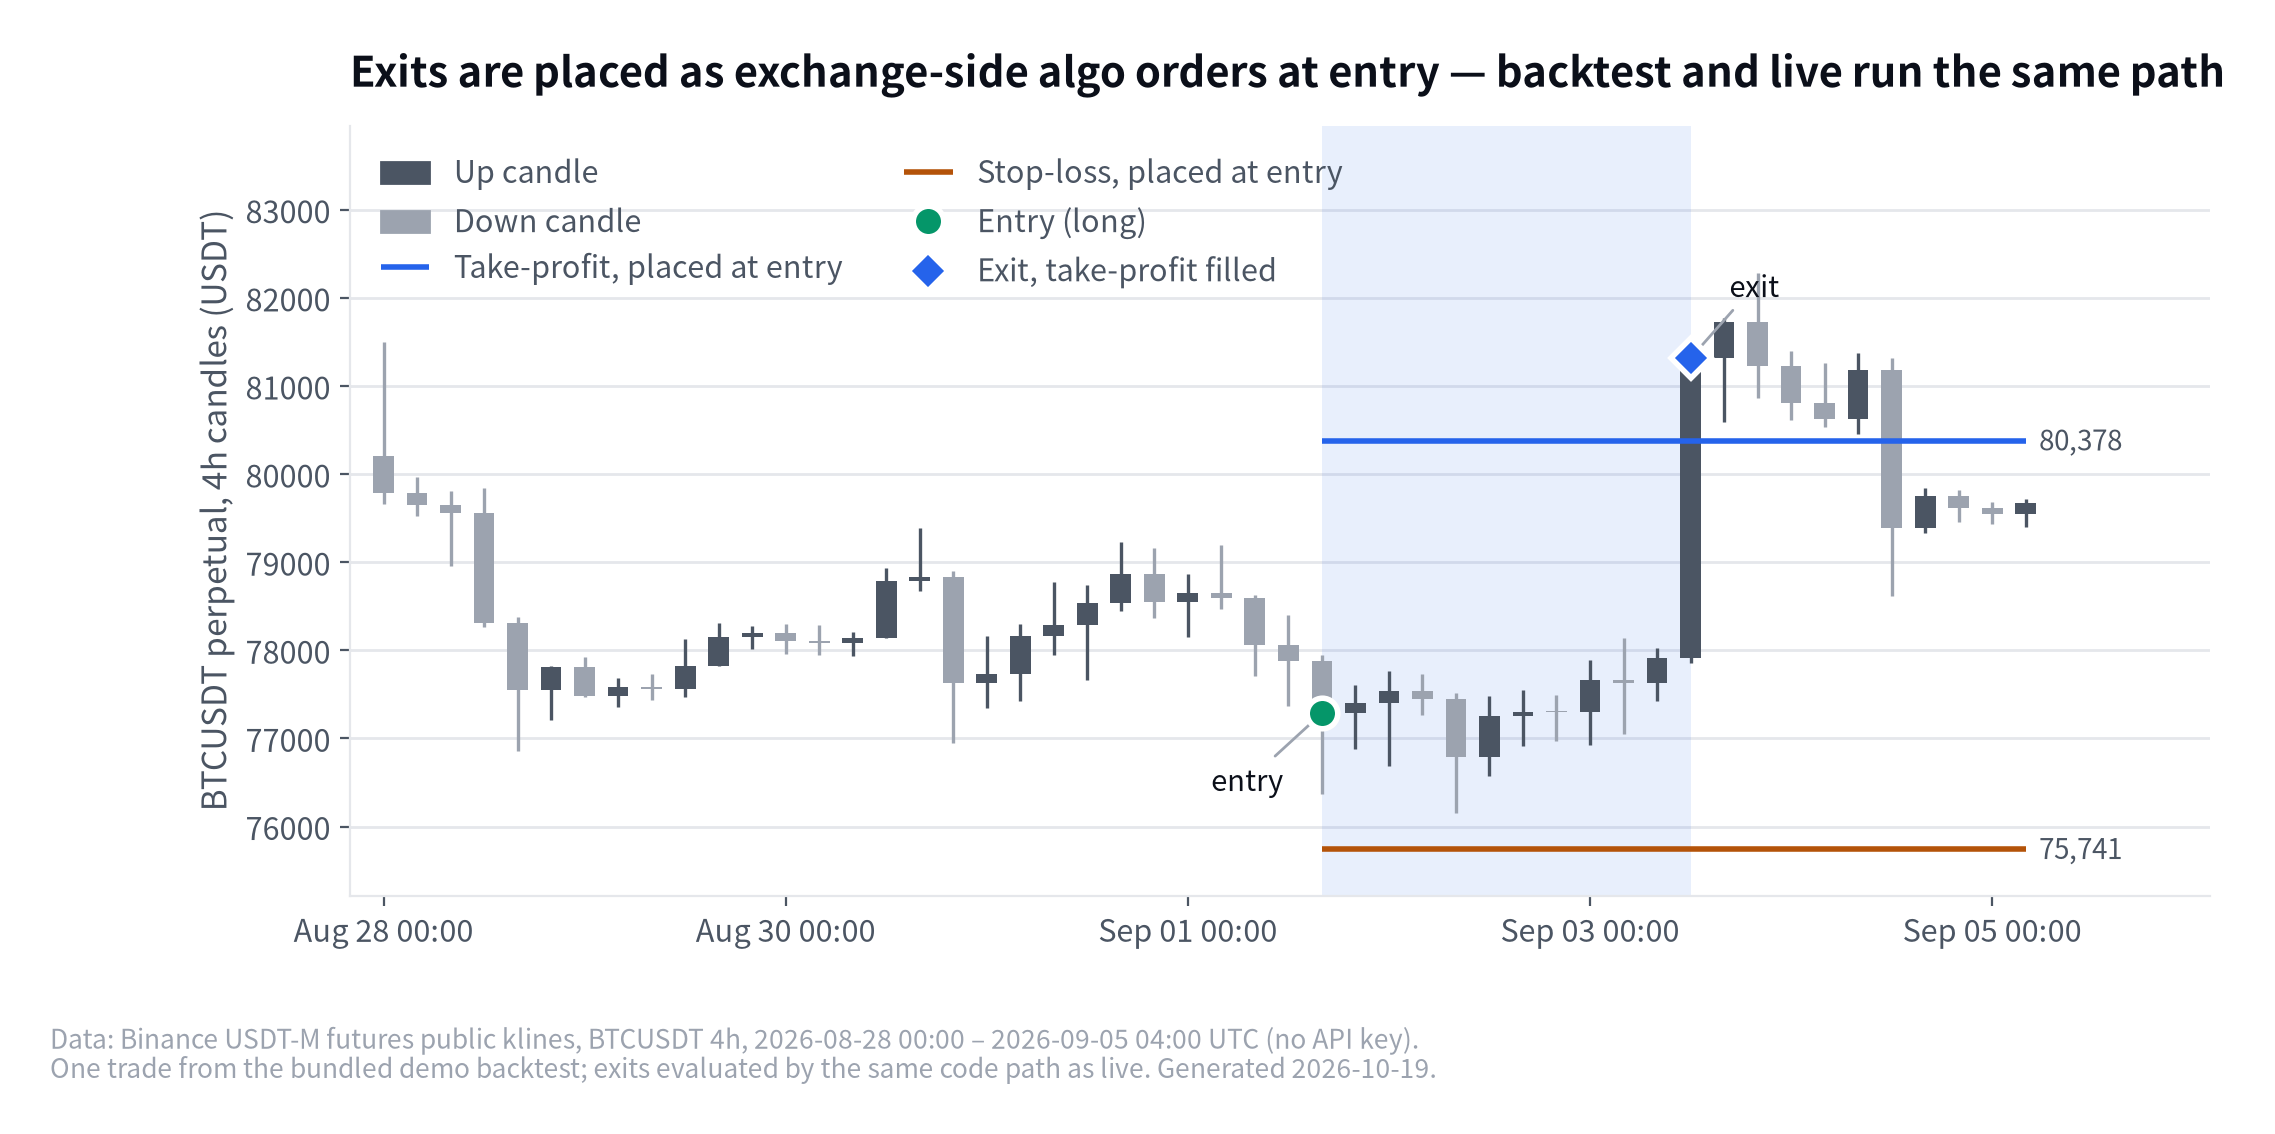
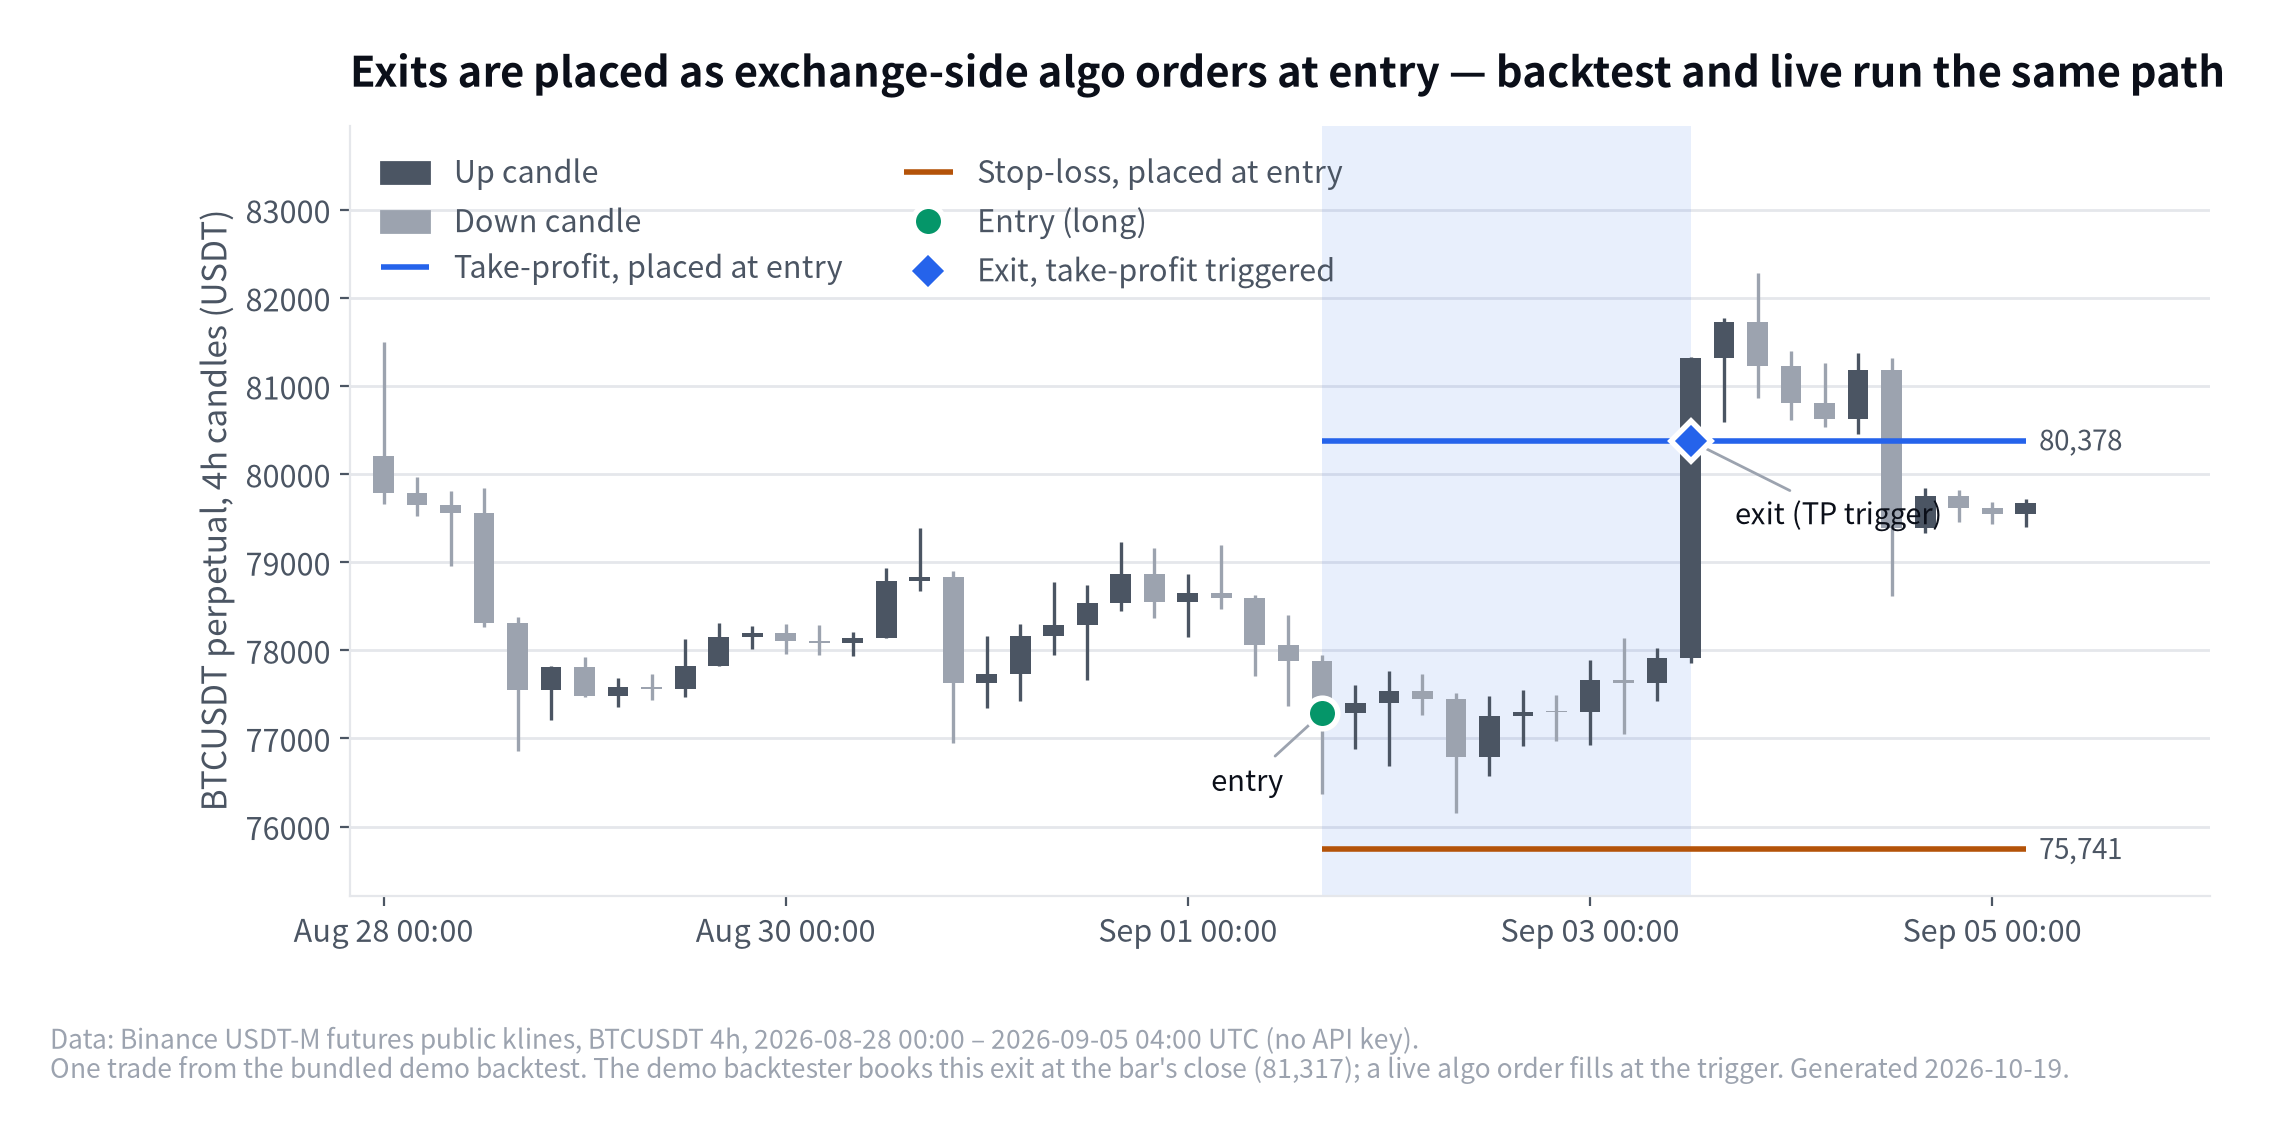
docs(readme): 첫 화면을 훅·히어로·사실 셋·Quick start 로 다듬고 독립 리뷰를 반영
처음 보는 사람이 스크롤 전에 무엇인지·왜 흥미로운지·어떻게 써 보는지를 알게 한다.
본문은 위에서 아래로 읽을 때 필요한 것만 남기고, 모든 수치는 코드·데이터와 대조했다.
리뷰어가 짚은 과장·낡은 수치·깨진 예제를 고쳤다. 관련 프로젝트 푸터는 stack.yml 생성분 그대로.

diff --git a/scripts/make_hero.py b/scripts/make_hero.py
@@ -99,13 +99,16 @@ def main() -> int:
         # 진입/청산 마커
         ax.plot(ex, entry, "o", ms=11, color=p["green"], mec=p["surface"], mew=2, zorder=6,
                 label=f"Entry ({side})")
+        # 마커는 트리거 레벨(TP/SL 선) 위에 — 라이브에선 알고 주문이 그 가격에서 체결된다.
         xcol = p["blue"] if hit_tp else p["amber"]
-        ax.plot(xx, tr.exit_price, "D", ms=10, color=xcol, mec=p["surface"], mew=2, zorder=6,
-                label="Exit, " + ("take-profit filled" if hit_tp else "stop-loss filled"))
+        exit_lvl = tp if hit_tp else sl
+        ax.plot(xx, exit_lvl, "D", ms=10, color=xcol, mec=p["surface"], mew=2, zorder=6,
+                label="Exit, " + ("take-profit triggered" if hit_tp else "stop-loss triggered"))
         ax.annotate("entry", (ex, entry), xytext=(-14, -28), textcoords="offset points",
                     color=p["ink"], fontsize=10.5, ha="right",
                     arrowprops=dict(arrowstyle="-", color=p["ink3"], lw=1))
-        ax.annotate("exit", (xx, tr.exit_price), xytext=(14, 22 if hit_tp else -26), textcoords="offset points",
+        ax.annotate("exit (TP trigger)" if hit_tp else "exit (SL trigger)", (xx, exit_lvl),
+                    xytext=(16, -30 if hit_tp else 24), textcoords="offset points",
                     color=p["ink"], fontsize=10.5, ha="left",
                     arrowprops=dict(arrowstyle="-", color=p["ink3"], lw=1))
         # 범례용 캔들 프록시
@@ -129,8 +132,8 @@ def main() -> int:
         t0, t1 = w.open_time.iloc[0], w.open_time.iloc[-1]
         caption(fig, f"Data: Binance USDT-M futures public klines, {SYMBOL} {INTERVAL}, "
                      f"{t0:%Y-%m-%d %H:%M} – {t1:%Y-%m-%d %H:%M} UTC (no API key).\n"
-                     f"One trade from the bundled demo backtest; exits evaluated by the same code path as live. "
-                     f"Generated {GENERATED}.", p)
+                     f"One trade from the bundled demo backtest. The demo backtester books this exit at the bar's close "
+                     f"({tr.exit_price:,.0f}); a live algo order fills at the trigger. Generated {GENERATED}.", p)
 
     paths = render_both(draw, out_dir=str(ROOT / "docs/images"), name="hero", figsize=(12, 5))
     print("trade:", tr, "\nwritten:", *paths)

diff --git a/README.md b/README.md
@@ -1,5 +1,7 @@
 # Binance Quant Engine ⚙
 
+**Strategy-agnostic Binance USDT-M futures engine — zero look-ahead, backtest and live run the same code path, exits placed as exchange-side algo orders at entry. Optional MCP server.**
+
 [![CI](https://github.com/younghwan91/binance-quant-engine/actions/workflows/ci.yml/badge.svg)](https://github.com/younghwan91/binance-quant-engine/actions/workflows/ci.yml)
 [![PyPI](https://img.shields.io/pypi/v/binance-quant-engine.svg)](https://pypi.org/project/binance-quant-engine/)
 [![Python](https://img.shields.io/badge/python-3.10%2B-blue.svg)](https://www.python.org/downloads/)
@@ -11,37 +13,29 @@
   <img alt="One trade on BTCUSDT 4h candles: take-profit and stop-loss drawn from the entry bar onward, because they are placed as exchange-side algo orders at entry; backtest and live run the same code path" src="docs/images/hero-light.png" width="100%">
 </picture>
 
-**A strategy-agnostic Binance USDT-M futures backtest & execution engine.** Backtest and live trading run through the *same* strategy code, so a look-ahead bug can't exist in one and not the other — and an [MCP server](#mcp-server-let-an-agent-run-your-backtests) lets any MCP-compatible agent run backtests without writing a line of Python.
+- **The exchange holds your exits.** Stop-loss, take-profit and trailing stop go to Binance's Algo Order API the moment a position opens — if your process dies, the trade still closes. ([brackets.py](src/binance_quant_engine/execution/brackets.py))
+- **One strategy object, one call order.** The backtester drives a `TradingStrategy` exactly as the live bot it was extracted from does — same methods, same order — so a bug can't exist in one path and not the other. This repo ships the backtester, the protocol and the execution mixins; the live driver stays private.
+- **No future in the array.** At bar `t` the strategy is handed `close[:t+1]` and nothing else — [enforced by a test](tests/test_backtest.py).
 
-Extracted from the infra layer of a real, currently-running Binance USDT-M futures bot — the alpha (strategy, parameters, live P&L) stays private; what's public is the part every retail algo trader rebuilds badly at least once: a backtester that can't cheat, and an execution layer that survives Binance's actual API quirks. The bundled demo strategy is textbook logic (Bollinger squeeze); it exists to exercise the engine end to end, not to make you money.
-
-> This repository supersedes `quantbox-engine`, which is no longer maintained. If you have that repo cloned, switch to this one.
-
-## Why not just write your own backtest loop?
-
-Because the failure modes here are the ones that quietly wreck a real account, not the ones a unit test catches:
-
-| Problem | What usually happens | What this engine does |
-|---|---|---|
-| Look-ahead bias | A signal computed over a full array accidentally sees future bars | The backtester physically hands the strategy only `close[: t + 1]` each step — there is no future in the array to peek at ([enforced by test](tests/test_backtest.py)) |
-| Backtest/live divergence | Backtest logic gets "ported" to the live bot and drifts | One `TradingStrategy` object, same method calls, same order, in both paths |
-| Binance tick-size rejection | A price a float-division away from the tick grid gets silently rejected or mispriced | [`round_to_tick`](src/binance_quant_engine/execution/utils.py) snaps every stop/limit/activation price to the symbol's grid before it leaves the process |
-| Dead-man's switch | Bot crashes → open position has no stop-loss | SL/TP/trailing stops are placed **on Binance's Algo Order API**, so the exchange — not your process — enforces the exit |
+This is the engine, not the alpha. It was extracted from the infrastructure of a private, running futures bot; strategies, parameters, live results and the live driver itself stay there. The bundled Bollinger-squeeze demo only exists to exercise the engine end to end.
 
 ## Quick start
 
 ```bash
-pip install binance-quant-engine
-# or: uv add binance-quant-engine
-
-bqe-backtest --demo      # backtest the bundled demo strategy on synthetic data
+pip install binance-quant-engine      # or: uv add binance-quant-engine
+bqe-backtest --demo                   # demo strategy on synthetic data, no keys, no network
 ```
 
-![Demo backtest run](docs/images/demo-backtest.png)
+```text
+Binance Quant Engine — demo backtest (Bollinger squeeze, synthetic data)
+  trades        : 19
+  total return  : +6.00%
+  win rate      : 68.4%
+  profit factor : 1.33
+  max drawdown  : -6.27%
+```
 
-> ⚠ The numbers above are from a **demo strategy on synthetic data**. They prove the engine runs; they say nothing about profitability.
-
-## Backtest your own data
+⚠ Synthetic data, textbook demo strategy: this proves the engine runs and says nothing about profitability.
 
 ```python
 from binance_quant_engine.backtest.vectorized import run_backtest
@@ -54,11 +48,29 @@ print(result.summary())
 # {'n_trades': ..., 'total_return': ..., 'win_rate': ..., 'profit_factor': ..., 'max_drawdown': ...}
 ```
 
-Bring your own strategy by implementing [`TradingStrategy`](src/binance_quant_engine/strategy/protocol.py) — a `typing.Protocol`, no base class required.
+## What it does
 
-### Custom strategy example
+- **Backtest** — `run_backtest()` steps a strategy bar by bar over one OHLC series and returns trades, equity curve and max drawdown. Taker fee and slippage are charged on both legs; every number is net.
+- **Strategy interface** — [`TradingStrategy`](src/binance_quant_engine/strategy/protocol.py) is a `typing.Protocol` (PEP 544): implement the methods, no base class.
+- **Live execution** (`.[live]`) — a `BracketMixin` that places SL / TP / `TRAILING_STOP_MARKET` as Binance algo orders at entry, ratchets the stop-loss order upward (place-new-then-cancel-old), lets Binance trail the `TRAILING_STOP_MARKET`, verifies brackets are still alive and recognises the terminal statuses, `REJECTED` included.
+- **Data** — `load_csv()` for your own klines, `synth_ohlcv()` for a deterministic series with alternating volatility regimes, a memory + gzip cache.
 
-Implementing the protocol requires no inheritance (PEP 544 structural subtyping). The engine runs the exact same methods in backtest and live modes:
+## Why it is built this way
+
+| Failure mode | What usually happens | What this engine does |
+|---|---|---|
+| Look-ahead bias | A signal computed over the full array quietly sees future bars | The backtester hands the strategy only `close[:t+1]` each step; a test asserts the strategy never sees past `t` |
+| Backtest / live divergence | Backtest logic is "ported" to the bot and drifts | One `TradingStrategy` object, same calls, same order — the live bot it was extracted from drives it exactly as the backtester does |
+| Bot crashes with a position open | No stop-loss, until you notice | Exits live on Binance's Algo Order API, so the exchange enforces them |
+| Tick-size rejection | A price one float division off the grid is rejected or mispriced | [`round_to_tick`](src/binance_quant_engine/execution/utils.py) snaps every outgoing stop, limit and activation price to the symbol's grid |
+| Agent with a live key | An LLM tool call places a real order | The MCP server is backtest-only by construction; trading is something you wire yourself, explicitly |
+
+## Bring your own strategy
+
+Implement the protocol, no inheritance. The backtester runs exactly these methods, and the live bot it was extracted from runs the same ones. Signals are `-1` short, `0` flat, `+1` long.
+
+<details>
+<summary>Self-contained example: 10-bar momentum with a 2 % hard stop</summary>
 
 ```python
 import numpy as np
@@ -111,7 +123,7 @@ result = run_backtest(SimpleMomentumStrategy(), high, low, close, fee=0.0004, sl
 print(result.summary())
 ```
 
-For live execution wiring and bracket algo order setups: [docs/USAGE.md](docs/USAGE.md).
+</details>
 
 ## MCP server — let an agent run your backtests
 
@@ -120,20 +132,7 @@ pip install "binance-quant-engine[mcp]"
 binance-quant-engine-mcp   # stdio MCP server
 ```
 
-Exposes `run_demo_backtest`, `backtest_csv`, and `describe_strategy_protocol` to any MCP client (Claude Code, Claude Desktop, etc.) — point an agent at a CSV of OHLC data and it can backtest a strategy idea in the same turn, no local Python environment required on the agent's side.
-
-**This is deliberately backtest-only.** Nothing under `execution/` (order placement, cancellation, bracket management) is reachable through the MCP server — there is no tool call that can touch a live Binance order. If you want an agent that also *trades*, that's a decision you wire yourself, explicitly, outside this server.
-
-## Design
-
-| Design choice | How |
-|---|---|
-| **No-look-ahead by construction** | The backtester hands the strategy `close[:t+1]` (bars completed as of now) every step — there's no future in the array to see. |
-| **Backtest = live, same code** | The same `TradingStrategy` object is driven by the backtester and the live bot, in the same call order. No reimplementation gap. |
-| **Pluggable strategy** | The engine only ever talks to a strategy through [`TradingStrategy`](src/binance_quant_engine/strategy/protocol.py) (PEP 544). No inheritance required. |
-| **Costs are net, not gross** | Taker fee + slippage charged on both entry and exit legs. |
-| **Server-side exits** | SL/TP/trailing stops live on Binance's Algo Order API — the exchange enforces them even if your process dies. ([brackets.py](src/binance_quant_engine/execution/brackets.py)) |
-| **Tick-safe prices** | Every price sent to the exchange is snapped to the symbol's tick grid first ([utils.py](src/binance_quant_engine/execution/utils.py)) — a category of Binance rejection this engine doesn't have. |
+Exposes `run_demo_backtest`, `backtest_csv` and `describe_strategy_protocol` to any MCP client (Claude Code, Claude Desktop, …): hand an agent a CSV of OHLC data and it can backtest an idea in the same turn. There is no tool that can touch a live order.
 
 ## Structure
 
@@ -166,7 +165,7 @@ flowchart LR
     BT <-->|"update_market_data / on_bar\nopen·update·close_position"| PROTO
 
     subgraph Execute["binance_quant_engine/execution/ — execute (.[live])"]
-        HOST["host.py\nScalperProtocol (live bot host)"]
+        HOST["host.py\nScalperProtocol (host interface)"]
         BRACKET["brackets.py\nBracketMixin — SL/TP/trailing"]
         UTIL["utils.py\nround_to_tick · dead-status set"]
         ALGO["algo_api.py\nAlgoApiClient"]
@@ -179,19 +178,27 @@ flowchart LR
     end
     BT -.->|"callable via"| SRV
 
-    PROTO ==>|"same interface<br/>(backtest = live)"| HOST
+    PROTO ==>|"same interface<br/>(live driver outside this repo)"| HOST
     ALGO --> BINANCE[("Binance USDT-M\nFutures Algo Order API")]
 ```
 
-- How to plug in a strategy and wire up live execution → [docs/USAGE.md](docs/USAGE.md)
-- Design rationale for no-look-ahead, backtest/live parity, and the cost model → [docs/ARCHITECTURE.md](docs/ARCHITECTURE.md)
+- Plug in a strategy, wire up live execution → [docs/USAGE.md](docs/USAGE.md)
+- No-look-ahead, backtest/live parity, execution layer, cost model → [docs/ARCHITECTURE.md](docs/ARCHITECTURE.md)
+
+## Install, configure, develop
+
+```bash
+pip install binance-quant-engine            # backtests only: numpy + pandas
+pip install "binance-quant-engine[live]"    # + python-binance; cp .env.example .env (API key, secret, testnet flag; .env is gitignored)
+pip install "binance-quant-engine[mcp]"     # + mcp
+uv pip install -e ".[dev]" && uv run pytest -q && uv run ruff check .   # contributing; tests need no network or key
+```
 
 ## Contributing & Issues
 
 - 🐛 Bugs & questions → [Issues](https://github.com/younghwan91/binance-quant-engine/issues)
 - 🔧 PRs and contributions welcome!
 - 📈 Updates → [Follow @younghwan91](https://github.com/younghwan91)
-
 
 ## Related projects — open-source quant stack
 
